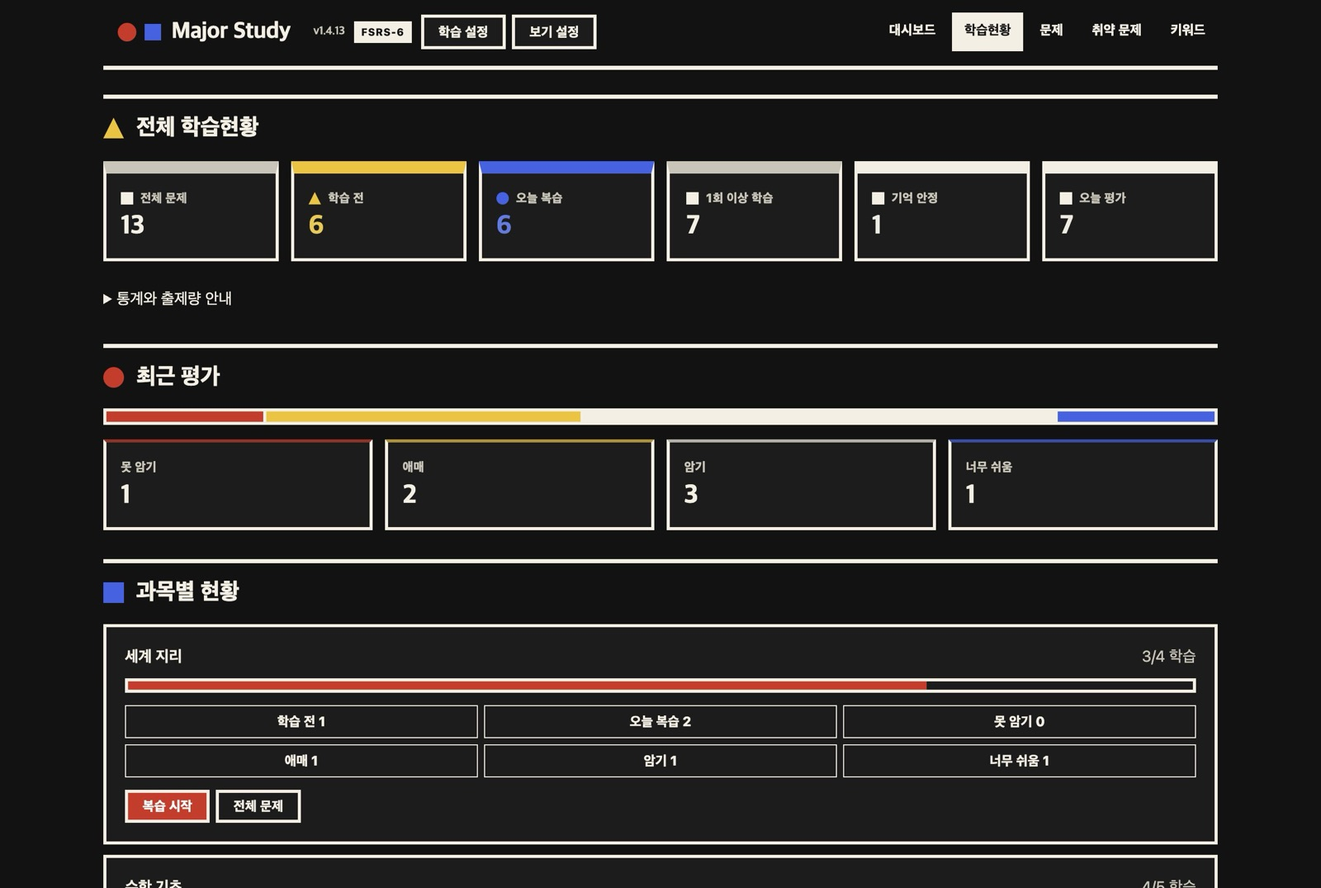
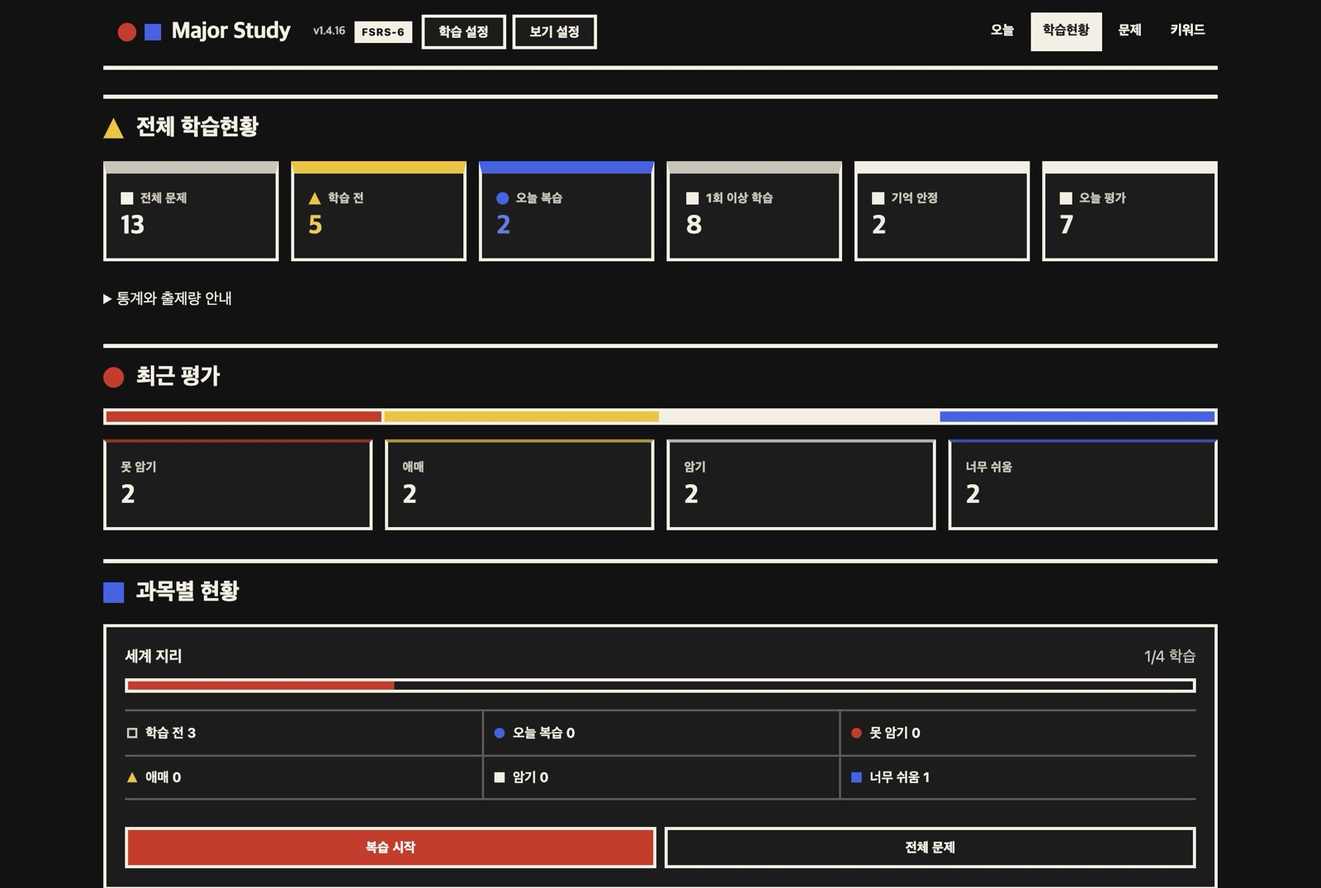
release: MIA Study 1.4.16
Re-layout of the tabs (오늘, 학습현황, 문제, 키워드), the question list with
a side detail panel, and the study screen. Homepage screenshots and docs are
updated for the new layout. main.js and styles.css change; storage format and
algorithm are unchanged.

diff --git a/docs/index.html b/docs/index.html
@@ -5,9 +5,9 @@
 <meta name="viewport" content="width=device-width,initial-scale=1">
 <meta name="color-scheme" content="light dark">
 <title>MIA Study · Obsidian 전공 공부 플러그인</title>
-<meta name="description" content="Obsidian 안에서 전공 질문을 모으고, 키워드로 연결하고, FSRS-6로 복습하는 플러그인. 정식 1.4.15 다운로드와 설치 안내.">
+<meta name="description" content="Obsidian 안에서 전공 질문을 모으고, 키워드로 연결하고, FSRS-6로 복습하는 플러그인. 정식 1.4.16 다운로드와 설치 안내.">
 <meta property="og:title" content="MIA Study · Obsidian 전공 공부 플러그인">
-<meta property="og:description" content="질문·키워드·FSRS-6 복습을 Obsidian 안에서. 정식 1.4.15.">
+<meta property="og:description" content="질문·키워드·FSRS-6 복습을 Obsidian 안에서. 정식 1.4.16.">
 <meta property="og:image" content="https://kimchi-kang.github.io/mia-study-obsidian/assets/screens/desktop-dashboard.jpg">
 <meta property="og:type" content="website">
 <link rel="preconnect" href="https://fonts.googleapis.com">
@@ -279,11 +279,11 @@ footer .fm .t{background:var(--yellow);clip-path:polygon(50% 0,100% 100%,0 100%)
   <div class="wrap">
     <div class="hero-grid">
       <div>
-        <span class="ver">정식 1.4.15</span>
+        <span class="ver">정식 1.4.16</span>
         <h1>질문을 모으고,<br><em>잊기 전에</em><br>다시 꺼낸다.</h1>
         <p class="lead">Obsidian 안에서 과목·질문·키워드를 폼으로 관리하고, FSRS-6로 복습 시점을 잡아 주는 공부 플러그인. Markdown을 직접 쓰지 않아도 되고, 문제마다 노트를 만들지도 않습니다. 1.4.13부터 플러그인 화면도 이 페이지와 같은 바우하우스 스타일(빨강·노랑·파랑, 두꺼운 테두리, 각진 모서리)입니다.</p>
         <div class="cta">
-          <a class="btn btn-red" href="https://github.com/kimchi-kang/mia-study-obsidian/releases/download/1.4.15/mia-study-1.4.15.zip" download>↓ 1.4.15 다운로드</a>
+          <a class="btn btn-red" href="https://github.com/kimchi-kang/mia-study-obsidian/releases/download/1.4.16/mia-study-1.4.16.zip" download>↓ 1.4.16 다운로드</a>
           <a class="btn btn-line" href="#install">BRAT 설치</a>
         </div>
         <p class="meta"><span>무료 · MIT</span><span>데스크톱·모바일</span><span>Obsidian 1.8.7+</span></p>
@@ -298,7 +298,7 @@ footer .fm .t{background:var(--yellow);clip-path:polygon(50% 0,100% 100%,0 100%)
       </div>
     </div>
     <figure class="frame hero-shot">
-      <img src="assets/screens/desktop-dashboard.jpg" width="1600" height="1075" alt="바우하우스 스타일의 MIA Study 대시보드. 파란 복습 6개·노란 새 문제 6개 타일과 빨간 시험 모드 시작 버튼, 이어하기 카드, 등록 문제 13개·기억 안정 비율·오늘 평가 통계 타일, 과목별 학습 카드가 보인다.">
+      <img src="assets/screens/desktop-dashboard.jpg" width="1600" height="1075" alt="바우하우스 스타일의 MIA Study 오늘 화면. 큰 파란 복습 블록과 노란 새 문제 블록, 빨간 시험 모드 시작 버튼·전체 암기 모드·기록 새로고침이 있는 시작 패널, 이어하기 카드, 등록 문제 13개 등 통계 타일, 취약 문제 띠가 보인다.">
     </figure>
   </div>
 </div>
@@ -309,7 +309,7 @@ footer .fm .t{background:var(--yellow);clip-path:polygon(50% 0,100% 100%,0 100%)
     <div class="steps">
       <div class="step"><span class="n">1</span><h3>과목 추가</h3><p>리본의 뇌 아이콘이나 명령 팔레트의 <code>MIA Study 열기</code>로 시작해 과목을 만듭니다. 과목 폴더와 문제은행 노트가 자동으로 생깁니다.</p></div>
       <div class="step"><span class="n">2</span><h3>질문 추가</h3><p>과목·질문·정답·유형과 핵심·보조 키워드, 각 키워드의 의미를 폼에 입력합니다. 키워드 의미 노트도 함께 만들어집니다.</p></div>
-      <div class="step"><span class="n">3</span><h3>시험 시작</h3><p>대시보드의 <strong>시험 모드 시작</strong>을 누르면 오늘 복습할 문제와 새 문제가 나옵니다. 평가할 때마다 다음 복습일이 정해집니다.</p></div>
+      <div class="step"><span class="n">3</span><h3>시험 시작</h3><p><strong>오늘</strong> 화면의 <strong>시험 모드 시작</strong>을 누르면 오늘 복습할 문제와 새 문제가 나옵니다. 평가할 때마다 다음 복습일이 정해집니다.</p></div>
     </div>
     <p class="defaults">기본값: 하루 새 문제 20개 · 복습 200회 · 하루 시작 오전 4시 · 학습 단계 1분 → 10분 · 목표 기억률 90%</p>
   </div>
@@ -338,7 +338,7 @@ footer .fm .t{background:var(--yellow);clip-path:polygon(50% 0,100% 100%,0 100%)
         </ul>
         <p class="keys">Space 정답 · 1–4 평가 · ← → 이동 · U 직전 평가 취소</p>
       </div>
-      <figure class="frame"><img src="assets/screens/desktop-study.jpg" width="1600" height="1075" loading="lazy" alt="시험 모드 학습 화면. 시차 계산 질문 아래 분수 수식이 렌더링된 모범 답안과 빨강·노랑·흰색·파랑의 못 암기·애매·암기·너무 쉬움 평가 버튼이 보인다."></figure>
+      <figure class="frame"><img src="assets/screens/desktop-study.jpg" width="1600" height="1075" loading="lazy" alt="시험 모드 학습 화면. 시차 계산 질문 아래 분수 수식이 렌더링된 모범 답안과, 1–4 키 표시와 다음 간격이 붙은 빨강·노랑·흰색·파랑의 큰 평가 버튼이 보인다."></figure>
     </div>
 
     <div class="feat flip">
@@ -367,7 +367,7 @@ footer .fm .t{background:var(--yellow);clip-path:polygon(50% 0,100% 100%,0 100%)
           <li>질문마다 상세·편집·연결·삭제</li>
         </ul>
       </div>
-      <figure class="frame"><img src="assets/screens/desktop-questions.jpg" width="1600" height="1075" loading="lazy" alt="문제 목록 화면. 수학 기초·요리 과학 예시 질문 13개와 검색창, 과목·유형·상태 필터, 질문마다 학습·상세·편집·연결·삭제 버튼이 보인다."></figure>
+      <figure class="frame"><img src="assets/screens/desktop-questions.jpg" width="1600" height="1075" loading="lazy" alt="문제 목록 화면. 전체 13·오늘 복습 2·학습 전 10·▲ 취약 상태 칩과 검색창·필터, 질문마다 학습·상세·편집·연결 열과 빨간 삭제 글자, 오른쪽 상세 패널 영역이 보인다."></figure>
     </div>
 
     <div class="feat flip">
@@ -381,7 +381,7 @@ footer .fm .t{background:var(--yellow);clip-path:polygon(50% 0,100% 100%,0 100%)
           <li>학습 중 키워드·과목·유형·최근 평가로 관련 문제를 추천해 이어서 출제</li>
         </ul>
       </div>
-      <figure class="frame"><img src="assets/screens/desktop-keywords.jpg" width="1600" height="1075" loading="lazy" alt="키워드 화면. 레시피, 갈변, 경우의 수, 근의 공식, 끓는점, 마이야르 반응 같은 예시 키워드 카드마다 연결 문제 수와 키워드 수정·연결 문제 시험·암기·키워드 삭제 버튼이 보인다."></figure>
+      <figure class="frame"><img src="assets/screens/desktop-keywords.jpg" width="1600" height="1075" loading="lazy" alt="키워드 화면. 레시피, 갈변, 경우의 수, 계량, 고도, 근의 공식 같은 예시 키워드 카드마다 연결 문제 수와 연결 문제 시험·암기·편집·삭제 버튼이 보인다."></figure>
     </div>
 
     <div class="feat">
@@ -391,7 +391,7 @@ footer .fm .t{background:var(--yellow);clip-path:polygon(50% 0,100% 100%,0 100%)
         <p>전체·과목별로 학습 전, 오늘 복습, 기억 안정, 오늘 평가를 한눈에 보고, 숫자를 누르면 해당 문제만 모아 봅니다.</p>
         <ul class="pts">
           <li>최근 평가 분포를 네 가지 색 막대로 표시</li>
-          <li>취약 문제: 못 암기·애매 문제를 복습 지연 시간까지 반영한 긴급도 순으로 정렬해 바로 시험</li>
+          <li>취약 문제: 오늘 화면의 취약 띠와 문제 탭의 "▲ 취약" 필터에서 못 암기·애매 문제를 복습 지연 시간까지 반영한 긴급도 순으로 정렬해 바로 시험</li>
           <li>시험이 끝나면 평가별 개수·건너뜀·소요 시간 요약</li>
         </ul>
       </div>
@@ -402,7 +402,7 @@ footer .fm .t{background:var(--yellow);clip-path:polygon(50% 0,100% 100%,0 100%)
     <div class="more">
       <div><span class="dot c" aria-hidden="true"></span><h3>시험 모드 · 암기 모드</h3><p>시험은 정답을 가리고 상한·순서를 따릅니다. 암기는 정답을 처음부터 보여 주고 순서대로·랜덤을 고릅니다.</p></div>
       <div><span class="dot s" aria-hidden="true"></span><h3>직전 평가 취소</h3><p>잘못 누른 평가를 그 직전의 복습 상태와 학습 순서까지 그대로 되돌립니다.</p></div>
-      <div><span class="dot t" aria-hidden="true"></span><h3>이어하기</h3><p>마지막으로 본 위치를 저장해 대시보드에서 바로 이어갑니다.</p></div>
+      <div><span class="dot t" aria-hidden="true"></span><h3>이어하기</h3><p>마지막으로 본 위치를 저장해 오늘 화면에서 바로 이어갑니다.</p></div>
       <div><span class="dot c" aria-hidden="true"></span><h3>Anki 스타일 학습 설정</h3><p>하루 새 문제·복습 상한, 학습·재학습 단계, 목표 기억률, 출제 순서, 평가 버튼별 고정 간격을 간편·고급 화면에서 조정합니다.</p></div>
       <div><span class="dot s" aria-hidden="true"></span><h3>꼬리질문 연결</h3><p>기존 문제를 검색해 최대 50개까지 단방향·양방향으로 연결합니다.</p></div>
       <div><span class="dot t" aria-hidden="true"></span><h3>과목별 Word 정리본</h3><p>과목의 질문·답변 전체를 A4 서식의 .docx로 출력합니다. 표·목록·코드·보관함 이미지를 포함하고 수식은 LaTeX 표기로 보존합니다.</p></div>
@@ -424,7 +424,7 @@ footer .fm .t{background:var(--yellow);clip-path:polygon(50% 0,100% 100%,0 100%)
           <p class="honest">데스크톱 Obsidian에서 휴대폰 폭(390px)으로 찍은 화면입니다. 실제 휴대폰 캡처가 아닙니다.</p>
         </div>
         <div class="phones">
-          <figure class="phone"><img src="assets/screens/mobile-dashboard.jpg" width="780" height="1688" loading="lazy" alt="390픽셀 폭 어두운 테마의 대시보드. 파란 복습 6개·노란 새 문제 6개 타일, 시험 모드 시작 버튼, 이어하기 카드가 보인다."></figure>
+          <figure class="phone"><img src="assets/screens/mobile-dashboard.jpg" width="780" height="1688" loading="lazy" alt="390픽셀 폭 어두운 테마의 오늘 화면. 파란 복습·노란 새 문제 타일, 시험 모드 시작 버튼, 이어하기 카드와 아래쪽 탭 바(오늘·학습현황·문제·키워드)가 보인다."></figure>
           <figure class="phone"><img src="assets/screens/mobile-study.jpg" width="780" height="1688" loading="lazy" alt="390픽셀 폭 학습 화면. 수식이 렌더링된 모범 답안 아래에 빨강·노랑·흰색·파랑 평가 버튼 네 개가 2×2로 배치되어 있다."></figure>
         </div>
       </div>
@@ -483,11 +483,11 @@ footer .fm .t{background:var(--yellow);clip-path:polygon(50% 0,100% 100%,0 100%)
         <h3>ZIP 직접 설치</h3>
         <ol>
           <li>보관함을 백업하고 Obsidian을 닫습니다.</li>
-          <li><a href="https://github.com/kimchi-kang/mia-study-obsidian/releases/download/1.4.15/mia-study-1.4.15.zip">ZIP</a>의 <code>main.js</code> <code>styles.css</code> <code>manifest.json</code> 세 파일을 아래 폴더에 복사합니다.<code class="blk">.obsidian/<wbr>plugins/<wbr>mia-study/</code></li>
+          <li><a href="https://github.com/kimchi-kang/mia-study-obsidian/releases/download/1.4.16/mia-study-1.4.16.zip">ZIP</a>의 <code>main.js</code> <code>styles.css</code> <code>manifest.json</code> 세 파일을 아래 폴더에 복사합니다.<code class="blk">.obsidian/<wbr>plugins/<wbr>mia-study/</code></li>
           <li><code>data.json</code>, <code>ui-state.json</code>은 그대로 둡니다. 학습 기록이 여기 있습니다.</li>
           <li>Obsidian을 다시 엽니다.</li>
         </ol>
-        <p class="links"><a href="https://github.com/kimchi-kang/mia-study-obsidian/releases/download/1.4.15/SHA256SUMS">SHA256SUMS</a> · <a href="https://github.com/kimchi-kang/mia-study-obsidian/blob/main/INSTALL.md">INSTALL.md</a></p>
+        <p class="links"><a href="https://github.com/kimchi-kang/mia-study-obsidian/releases/download/1.4.16/SHA256SUMS">SHA256SUMS</a> · <a href="https://github.com/kimchi-kang/mia-study-obsidian/blob/main/INSTALL.md">INSTALL.md</a></p>
       </div>
     </div>
   </div>
@@ -498,17 +498,17 @@ footer .fm .t{background:var(--yellow);clip-path:polygon(50% 0,100% 100%,0 100%)
     <div class="sh"><span class="shape c" aria-hidden="true"></span><h2>최신 업데이트</h2><span class="num">06</span></div>
     <div class="upd">
       <div class="l">
-        <div class="big">1.4.15</div>
-        <p>2026년 11월 11일</p>
-        <p><a href="https://github.com/kimchi-kang/mia-study-obsidian/releases/tag/1.4.15">릴리스 노트 →</a></p>
+        <div class="big">1.4.16</div>
+        <p>2026년 11월 12일</p>
+        <p><a href="https://github.com/kimchi-kang/mia-study-obsidian/releases/tag/1.4.16">릴리스 노트 →</a></p>
       </div>
       <div class="r">
-        <h3>초기화 확인과 상세 창 버튼 정리</h3>
+        <h3>탭 4개로 줄인 새 화면 배치</h3>
         <ul>
-          <li>질문 상세 창의 "학습 전으로 초기화"가 실행 전에 기록 수를 보여 주고 되돌릴 수 없다고 안내하며 취소/초기화를 묻습니다.</li>
-          <li>평가 버튼에 색 막대, 초기화는 작은 빨간 글자 버튼, 삭제는 따로 분리. 휴대폰에서는 44px 터치 영역.</li>
+          <li>탭은 오늘 · 학습현황 · 문제 · 키워드. 취약 문제는 오늘의 취약 띠와 문제의 "▲ 취약" 필터로 옮겼습니다.</li>
+          <li>문제 목록은 열을 맞추고, 넓은 화면에서는 오른쪽 상세 패널로 엽니다. 학습 화면은 큰 색 평가 버튼과 키 안내, 휴대폰은 하단 탭 바와 44px 터치 영역.</li>
         </ul>
-        <p style="margin:0 0 12px"><a href="https://github.com/kimchi-kang/mia-study-obsidian/releases/tag/1.4.14">1.4.14</a>: 과목·학습현황·키워드 카드의 버튼과 숫자를 한눈에 보이도록 정리.</p>
+        <p style="margin:0 0 12px"><a href="https://github.com/kimchi-kang/mia-study-obsidian/releases/tag/1.4.15">1.4.15</a>: 질문 상세 창의 초기화 확인과 버튼 정리.</p>
         <a href="https://github.com/kimchi-kang/mia-study-obsidian/blob/main/docs/releases/HISTORY.md">전체 변경 이력 →</a>
       </div>
     </div>
@@ -519,7 +519,7 @@ footer .fm .t{background:var(--yellow);clip-path:polygon(50% 0,100% 100%,0 100%)
   <div class="wrap">
     <div class="sh"><span class="shape s" aria-hidden="true"></span><h2>검증</h2><span class="num">07</span></div>
     <div class="verify">
-      <div class="v"><span class="lab ok">통과</span><b>1,686개</b><p>1.4.15 자동 검사 실패·생략 0, 타입 검사·배포 빌드 통과.</p></div>
+      <div class="v"><span class="lab ok">통과</span><b>1,712개</b><p>1.4.16 자동 검사 실패·생략 0, 타입 검사·배포 빌드 통과.</p></div>
       <div class="v"><span class="lab ok">확인</span><b>데스크톱 앱</b><p>macOS Obsidian에서 모든 탭과 시험·암기, 평가·취소, 재시작을 확인했습니다.</p></div>
       <div class="v"><span class="lab no">미검증</span><b>휴대폰 실기기</b><p>iOS·Android 실기기, OS 키보드, 두 기기 실시간 동기화는 직접 확인하지 않았습니다.</p></div>
     </div>
@@ -545,7 +545,7 @@ footer .fm .t{background:var(--yellow);clip-path:polygon(50% 0,100% 100%,0 100%)
 <footer>
   <div class="wrap">
     <span class="fm" aria-hidden="true"><i class="c"></i><i class="s"></i><i class="t"></i></span>
-    <span>MIA Study 1.4.15 · <a href="https://github.com/kimchi-kang/mia-study-obsidian/blob/main/LICENSE">MIT</a> · 복습 일정: <a href="https://github.com/open-spaced-repetition/ts-fsrs">ts-fsrs</a>(FSRS-6)</span>
+    <span>MIA Study 1.4.16 · <a href="https://github.com/kimchi-kang/mia-study-obsidian/blob/main/LICENSE">MIT</a> · 복습 일정: <a href="https://github.com/open-spaced-repetition/ts-fsrs">ts-fsrs</a>(FSRS-6)</span>
     <span><a href="https://github.com/kimchi-kang/mia-study-obsidian">GitHub</a> · <a href="https://github.com/kimchi-kang/mia-study-obsidian/issues">문제 신고</a> · <a href="https://github.com/kimchi-kang/mia-study-obsidian/releases">릴리스</a></span>
   </div>
 </footer>

diff --git a/README.md b/README.md
@@ -10,9 +10,9 @@
 ![Platforms](https://img.shields.io/badge/desktop%20%C2%B7%20mobile-supported-2f9e5b)
 [![License](https://img.shields.io/github/license/kimchi-kang/mia-study-obsidian?color=555)](LICENSE)
 
-[**소개 페이지**](https://kimchi-kang.github.io/mia-study-obsidian/) · [**1.4.15 다운로드**](https://github.com/kimchi-kang/mia-study-obsidian/releases/download/1.4.15/mia-study-1.4.15.zip) · [변경 내역](docs/releases/1.4.15.md) · [현재 상태](STATUS.md)
+[**소개 페이지**](https://kimchi-kang.github.io/mia-study-obsidian/) · [**1.4.16 다운로드**](https://github.com/kimchi-kang/mia-study-obsidian/releases/download/1.4.16/mia-study-1.4.16.zip) · [변경 내역](docs/releases/1.4.16.md) · [현재 상태](STATUS.md)
 
-<img src="docs/assets/screens/desktop-dashboard.jpg" alt="MIA Study 대시보드. 1.4.13 바우하우스 디자인의 오늘 복습·새 문제 타일과 과목별 학습 카드" width="860">
+<img src="docs/assets/screens/desktop-dashboard.jpg" alt="MIA Study 오늘 화면. 바우하우스 디자인의 복습·새 문제 블록, 시작 패널, 취약 문제 띠와 과목별 학습 카드" width="860">
 
 </div>
 
@@ -26,7 +26,7 @@ Obsidian 안에서 과목·질문·키워드를 폼으로 관리하면서 FSRS-6
 
 화면은 1.4.13 바우하우스 디자인(빨강·노랑·파랑, 두꺼운 테두리, 각진 모서리)과 직접 만든 일반 상식 데모 보관함(수학 기초·세계 지리·요리 과학)으로 찍었습니다. 수식·이미지·표·코드 렌더링을 보여 주는 예시 질문이며 실제 학습 내용이 아닙니다. 모바일 화면은 데스크톱 Obsidian에서 휴대폰 폭을 흉내 낸 것입니다.
 
-[1.4.15 정식 릴리스](https://github.com/kimchi-kang/mia-study-obsidian/releases/tag/1.4.15) · [다운로드·설치 안내](https://kimchi-kang.github.io/mia-study-obsidian/) · [현재 상태](STATUS.md) · [1.4.15 변경 내역](docs/releases/1.4.15.md) · [이전 버전 이력](docs/releases/HISTORY.md)
+[1.4.16 정식 릴리스](https://github.com/kimchi-kang/mia-study-obsidian/releases/tag/1.4.16) · [다운로드·설치 안내](https://kimchi-kang.github.io/mia-study-obsidian/) · [현재 상태](STATUS.md) · [1.4.16 변경 내역](docs/releases/1.4.16.md) · [이전 버전 이력](docs/releases/HISTORY.md)
 
 Major Study 제목 바로 옆에서 현재 실행 중인 버전을 확인할 수 있습니다. 업데이트한 파일을 로드하려면 Obsidian을 다시 시작하세요. 수식은 원문에 `$...$` 또는 `$$...$$` 구분자와 TeX 문법이 있어야 표시됩니다. 예를 들어 `y(t) = A(1 - e^(-t/k))` 같은 일반 문장은 자동으로 수식으로 바뀌지 않습니다.
 
@@ -50,8 +50,8 @@ Major Study 제목 바로 옆에서 현재 실행 중인 버전을 확인할 수
 3. `질문 추가`에서 과목, 질문, 정답, 유형, 핵심·보조 키워드와 각 의미를 입력한다. 꼬리질문은 과목·제목·질문 내용으로 검색해 최대 50개까지 선택할 수 있다.
 4. `학습현황`에서 전체·학습 전·기억 안정·오늘 평가·오늘 복습·최근 평가와 과목별 상태를 확인한다. 숫자를 누르면 해당 문제만 모아 볼 수 있다.
 5. 문제 화면에서 질문의 상세 정보·복습 기록을 보거나 질문을 편집·삭제한다. 과목을 바꾸어 저장하면 기존/새 과목의 문제은행과 과목 노트가 함께 갱신된다.
-6. 대시보드의 과목 카드에서 과목 이름을 수정하거나 과목을 삭제하고, 키워드 화면에서 키워드의 이름·의미를 수정하거나 삭제한다.
-7. 대시보드의 `시험 모드 시작`은 정답을 가리고, `전체 암기 모드`는 정답을 처음부터 표시한다. 시험은 상세 학습관리의 상한과 순서를 따르고, 랜덤 암기는 복습 기한이 된 문제를 먼저, 새 문제를 다음에 내며 각 그룹 안에서 무작위로 배치한다. 암기는 MIA 플러그인 설정 또는 `보기 설정`의 `암기 모드 순서`에서 `순서대로` / `랜덤`을 선택한다(기본 랜덤, 기기별 저장). `순서대로`는 현재 문제 목록 순서를 따른다. 아직 복습 기한이 안 된 문제는 제외하며 변경한 설정은 새 학습부터 적용한다.
+6. `오늘` 화면의 과목 카드에서 과목 이름을 수정하거나 과목을 삭제하고, 키워드 화면에서 키워드의 이름·의미를 수정하거나 삭제한다.
+7. `오늘` 화면의 `시험 모드 시작`은 정답을 가리고, `전체 암기 모드`는 정답을 처음부터 표시한다. 시험은 상세 학습관리의 상한과 순서를 따르고, 랜덤 암기는 복습 기한이 된 문제를 먼저, 새 문제를 다음에 내며 각 그룹 안에서 무작위로 배치한다. 암기는 MIA 플러그인 설정 또는 `보기 설정`의 `암기 모드 순서`에서 `순서대로` / `랜덤`을 선택한다(기본 랜덤, 기기별 저장). `순서대로`는 현재 문제 목록 순서를 따른다. 아직 복습 기한이 안 된 문제는 제외하며 변경한 설정은 새 학습부터 적용한다.
 8. 정답을 본 뒤 `못 암기`, `애매`, `암기`, `너무 쉬움` 중 하나를 고른다. `애매`는 정답을 기억했지만 어려웠다는 뜻이다. 떠올리지 못했다면 `못 암기`를 고른다. 시험 모드의 일일 상한은 상세 학습관리에서 조정한다.
 9. 학습·재학습 중인 문제는 예정 시각이 되면 같은 세션에서 다시 출제된다. 다른 문제가 없으면 다음 복습 시각까지 대기하고 자동으로 재개한다. 다음날 이후의 정규 복습은 Anki처럼 **기한일 단위**로 출제한다. 하루 시작 시각(기본 04:00)부터 그날이 기한인 복습은 예약 시각 전이라도 출제하므로, 매일 비슷한 시간에 공부해도 복습이 하루씩 밀리지 않는다. 1분·10분 같은 학습 단계와 하루 미만의 고정 간격은 정확한 시각을 따른다.
 10. 화면 왼쪽 가장자리에서 중앙 방향으로 쓸면 학습을 시작한 화면으로 돌아간다. 이어하기로 같은 위치를 복원할 수 있다. 제스처로 문제를 넘기지 않으며 이전·다음 버튼을 사용한다. `보기 설정`에서 뒤로가기 제스처와 민감도를 조정할 수 있다.
@@ -61,7 +61,7 @@ Major Study 제목 바로 옆에서 현재 실행 중인 버전을 확인할 수
 
 추가 기능:
 
-- `취약 문제`: 못 암기·애매 문제를 복습 지연 시간이 포함된 긴급도 순으로 검색하고 바로 시험한다.
+- 취약 문제: `오늘` 화면의 취약 문제 띠(`취약 문제 시험` / `목록 보기`)와 `문제` 탭의 `▲ 취약` 필터에서 못 암기·애매 문제를 복습 지연 시간이 포함된 긴급도 순으로 보고 바로 시험한다.
 - `연결`: 질문을 검색·과목 필터로 최대 50개까지 선택하며 단방향 또는 양방향으로 연결한다.
 - 자동 추천: 키워드·과목·질문 유형·최근 평가를 바탕으로 5점 이상인 관련 질문을 현재 시험에 추가한다.
 - 질문 목록: 생성·수정일, 취약도, 애매 우선 정렬과 필터 칩, 한글 조합 검색, 50개 단위 페이지를 지원한다.
@@ -97,7 +97,7 @@ MIA 첫 화면의 `학습 설정` 또는 Obsidian 설정 → MIA Study에서 하
 
 ## 과목별 질문·답변 Word 정리본 출력
 
-MIA 대시보드의 **출력**을 누르면 과목 선택창이 열린다. 과목을 클릭하면 해당 과목의 등록된 모든 질문과 답변을 원본 파일·문제 순서대로 정리한 **Word(.docx)** 파일을 PC에서는 운영체제의 **다운로드 폴더**에 저장한다. 모바일에서는 보관함의 `MIA 출력/` 폴더에 저장한다. 질문 목록의 검색·복습 필터와 관계없이 선택한 과목 전체를 출력한다. 명령 팔레트의 `MIA Study: 과목 질문 답변 Word로 출력`으로도 실행할 수 있다.
+MIA `오늘` 화면의 **출력**을 누르면 과목 선택창이 열린다. 과목을 클릭하면 해당 과목의 등록된 모든 질문과 답변을 원본 파일·문제 순서대로 정리한 **Word(.docx)** 파일을 PC에서는 운영체제의 **다운로드 폴더**에 저장한다. 모바일에서는 보관함의 `MIA 출력/` 폴더에 저장한다. 질문 목록의 검색·복습 필터와 관계없이 선택한 과목 전체를 출력한다. 명령 팔레트의 `MIA Study: 과목 질문 답변 Word로 출력`으로도 실행할 수 있다.
 
 - 과목 제목 아래 `질문 1 → 답변 → 질문 2 → 답변` 순서로 정리한다. 중복된 문제 제목, 문제 ID, 학습 정보, 별도 `원문:` 출처 링크는 넣지 않는다.
 - A4 여백과 흑백 글자 스타일을 적용한다. 글자 강조·목록·표·코드와 보관함 안의 PNG·JPG·GIF·BMP 이미지를 포함한다. 일반 링크는 표시 문구만 남긴다.

diff --git a/STATUS.md b/STATUS.md
@@ -1,6 +1,8 @@
 # MIA Study 현재 작업·검증·배포 상태
 
-2026-11-11 KST. **현재 정식 배포는 1.4.15**입니다. 질문 상세 창의 `학습 전으로 초기화`가 실행 전에 확인 창(기록 수 표시, 되돌릴 수 없음 안내, 취소/초기화)을 띄우고, 상세 창 버튼을 정리했습니다(저장 형식·알고리즘 변경 없음, `main.js`·`styles.css` 변경). 전체 1,686개(실패·생략 0), 타입 검사·빌드 통과. 예시 문제로 만든 격리 보관함에서 데스크톱 Obsidian의 밝은·어두운 테마와 휴대폰 폭(390px)을 확인했습니다. **모바일 실기기와 두 기기 동기화는 미검증입니다.** [정식 릴리스](https://github.com/kimchi-kang/mia-study-obsidian/releases/tag/1.4.15) · [변경 내역](docs/releases/1.4.15.md) · [1.4.15 SHA256SUMS](https://github.com/kimchi-kang/mia-study-obsidian/releases/download/1.4.15/SHA256SUMS)
+2026-11-12 KST. **현재 정식 배포는 1.4.16**입니다. 화면 배치를 새로 짰습니다(레이아웃만 변경, 저장 형식·알고리즘 변경 없음, `main.js`·`styles.css` 변경). 탭은 `오늘`·`학습현황`·`문제`·`키워드` 4개이고 `취약 문제`는 `오늘`의 취약 띠와 `문제`의 `▲ 취약` 필터로 옮겼습니다. 문제 목록에 오른쪽 상세 패널, 학습 화면에 큰 평가 버튼, 휴대폰에 하단 탭 바를 넣었습니다. 전체 1,712개(실패·생략 0), 타입 검사·빌드 통과. 예시 문제로 만든 격리 보관함에서 데스크톱 Obsidian의 밝은·어두운 테마를 여러 폭으로, 휴대폰 폭(390px)을 확인했습니다. **모바일 실기기와 두 기기 동기화는 미검증입니다(휴대폰 전체 화면 상세는 CSS 대용으로만 확인).** [정식 릴리스](https://github.com/kimchi-kang/mia-study-obsidian/releases/tag/1.4.16) · [변경 내역](docs/releases/1.4.16.md) · [1.4.16 SHA256SUMS](https://github.com/kimchi-kang/mia-study-obsidian/releases/download/1.4.16/SHA256SUMS)
+
+2026-11-11 KST. **당시 정식 배포 1.4.15**입니다. 질문 상세 창의 `학습 전으로 초기화`가 실행 전에 확인 창(기록 수 표시, 되돌릴 수 없음 안내, 취소/초기화)을 띄우고, 상세 창 버튼을 정리했습니다(저장 형식·알고리즘 변경 없음, `main.js`·`styles.css` 변경). 전체 1,686개(실패·생략 0), 타입 검사·빌드 통과. 예시 문제로 만든 격리 보관함에서 데스크톱 Obsidian의 밝은·어두운 테마와 휴대폰 폭(390px)을 확인했습니다. **모바일 실기기와 두 기기 동기화는 미검증입니다.** [정식 릴리스](https://github.com/kimchi-kang/mia-study-obsidian/releases/tag/1.4.15) · [변경 내역](docs/releases/1.4.15.md) · [1.4.15 SHA256SUMS](https://github.com/kimchi-kang/mia-study-obsidian/releases/download/1.4.15/SHA256SUMS)
 
 2026-11-11 KST. **당시 정식 배포 1.4.14**입니다. 과목 카드·학습현황 과목 카드·키워드 카드의 버튼과 숫자를 한눈에 보이도록 정리했습니다(버튼은 그대로, `styles.css`만 변경, 저장 형식 변경 없음). 전체 1,685개(실패·생략 0), 타입 검사·빌드 통과. 예시 문제로 만든 격리 보관함에서 데스크톱 Obsidian의 밝은·어두운 테마와 휴대폰 폭(390px)을 확인하고 시험·이름 수정·연결 질문 보기·복습 시작 버튼을 눌러 보았습니다. **모바일 실기기와 두 기기 동기화는 미검증입니다.** [정식 릴리스](https://github.com/kimchi-kang/mia-study-obsidian/releases/tag/1.4.14) · [변경 내역](docs/releases/1.4.14.md) · [1.4.14 SHA256SUMS](https://github.com/kimchi-kang/mia-study-obsidian/releases/download/1.4.14/SHA256SUMS)
 

diff --git a/INSTALL.md b/INSTALL.md
@@ -4,7 +4,7 @@ Obsidian 1.8.7 이상을 대상으로 하며 데스크톱과 모바일을 지원
 
 ## 현재 정식 배포 · 2026-11-11
 
-정식 설치 버전은 **1.4.15**입니다. 질문 상세 창의 `학습 전으로 초기화`가 실행 전에 확인을 받고 상세 창 버튼 배치를 정리했으며(저장 형식 변경 없음, `main.js`·`styles.css` 변경), 1.4.14의 카드 버튼 정리와 과목 카드·학습현황 과목 카드·키워드 카드의 버튼과 숫자를 한눈에 보이도록 정리했고(버튼은 그대로, `styles.css`만 변경), 1.4.13의 바우하우스 스타일 새 디자인과 1.4.12의 동기화 충돌 복사본·부분 동기화 경고, 1.4.11의 고정 간격 기한일 수정을 포함합니다. 자동 검사와 격리 보관함의 데스크톱 Obsidian 화면으로 확인했으며 모바일 실기기에서는 확인하지 않았습니다. 수동 설치 시 같은 빌드의 세 배포 파일을 함께 사용하세요. [정식 다운로드](https://github.com/kimchi-kang/mia-study-obsidian/releases/tag/1.4.15) · [변경 내역](docs/releases/1.4.15.md) · [1.4.14 변경 내역](docs/releases/1.4.14.md) · [1.4.13 변경 내역](docs/releases/1.4.13.md) · [1.4.12 변경 내역](docs/releases/1.4.12.md) · [1.4.11 변경 내역](docs/releases/1.4.11.md) · [1.4.10 변경 내역](docs/releases/1.4.10.md) · [1.4.9 변경 내역](docs/releases/1.4.9.md) · [1.4.8 변경 내역](docs/releases/1.4.8.md) · [1.4.6 변경 내역](docs/releases/1.4.6.md) · [1.4.5 변경 내역](docs/releases/1.4.5.md) · [1.4.3 설치 검증과 복구](docs/qa/1.4.3-integration/README.md)
+정식 설치 버전은 **1.4.16**입니다. 화면 배치를 새로 짜서 탭이 `오늘`·`학습현황`·`문제`·`키워드` 4개가 되고(`취약 문제`는 `오늘`의 취약 띠와 `문제`의 `▲ 취약` 필터로 이동), 질문 목록에 오른쪽 상세 패널과 학습 화면의 큰 평가 버튼, 휴대폰 하단 탭 바를 넣었으며(저장 형식 변경 없음, `main.js`·`styles.css` 변경), 1.4.15의 질문 상세 창의 `학습 전으로 초기화`가 실행 전에 확인을 받고 상세 창 버튼 배치를 정리했으며(저장 형식 변경 없음, `main.js`·`styles.css` 변경), 1.4.14의 카드 버튼 정리와 과목 카드·학습현황 과목 카드·키워드 카드의 버튼과 숫자를 한눈에 보이도록 정리했고(버튼은 그대로, `styles.css`만 변경), 1.4.13의 바우하우스 스타일 새 디자인과 1.4.12의 동기화 충돌 복사본·부분 동기화 경고, 1.4.11의 고정 간격 기한일 수정을 포함합니다. 자동 검사와 격리 보관함의 데스크톱 Obsidian 화면으로 확인했으며 모바일 실기기에서는 확인하지 않았습니다. 수동 설치 시 같은 빌드의 세 배포 파일을 함께 사용하세요. [정식 다운로드](https://github.com/kimchi-kang/mia-study-obsidian/releases/tag/1.4.16) · [변경 내역](docs/releases/1.4.16.md) · [1.4.15 변경 내역](docs/releases/1.4.15.md) · [1.4.14 변경 내역](docs/releases/1.4.14.md) · [1.4.13 변경 내역](docs/releases/1.4.13.md) · [1.4.12 변경 내역](docs/releases/1.4.12.md) · [1.4.11 변경 내역](docs/releases/1.4.11.md) · [1.4.10 변경 내역](docs/releases/1.4.10.md) · [1.4.9 변경 내역](docs/releases/1.4.9.md) · [1.4.8 변경 내역](docs/releases/1.4.8.md) · [1.4.6 변경 내역](docs/releases/1.4.6.md) · [1.4.5 변경 내역](docs/releases/1.4.5.md) · [1.4.3 설치 검증과 복구](docs/qa/1.4.3-integration/README.md)
 
 ## 처음 설치
 

diff --git a/docs/releases/1.4.16.md b/docs/releases/1.4.16.md
@@ -1,0 +1,17 @@
+# MIA Study 1.4.16
+
+2026-11-12 정식 배포
+
+**화면 배치를 다시 짰습니다. 탭이 4개로 줄고, 질문 목록은 오른쪽 상세 패널을 쓰며, 학습 화면은 평가 버튼이 커졌습니다. 저장 방식과 학습 알고리즘은 바뀌지 않았습니다.**
+
+- **탭 4개.** `오늘`(이전 `대시보드`) · `학습현황` · `문제` · `키워드`입니다. `취약 문제` 탭은 없앴고 기능은 두 곳으로 옮겼습니다. `오늘`에는 취약 문제 띠(`취약 문제 시험` / `목록 보기`)가, `문제`에는 긴급도 순으로 정렬되는 `▲ 취약` 필터 칩이 있습니다. `오늘`의 `개선 필요`를 누르면 긴급도 순 취약 목록이 열리고, 이 목록은 300개 상한 대신 50개씩 나눠 보여 줍니다.
+- **오늘.** `복습`과 `새 문제` 블록이 커졌고, 시작 패널에 `시험 모드 시작`, `전체 암기 모드`, `기록 새로고침`, `이어하기`가 모였습니다.
+- **문제.** 행이 `학습`·`상세`·`편집`·`연결` 열로 정렬되고 `삭제`는 맨 오른쪽 빨간 글자입니다. 행을 누르면 넓은 화면에서는 오른쪽 패널에, 좁은 화면에서는 대화창에 상세가 열립니다. 상태 칩은 `전체` / `오늘 복습` / `학습 전` / `▲ 취약`입니다.
+- **이름 통일.** `질문 수정`·`문제 편집`·`키워드 수정`은 `편집`, `연결 관리`는 `연결`, `키워드 삭제`는 `삭제`로 바꿨습니다.
+- **학습 화면.** 색이 있는 큰 평가 버튼에 다음 간격과 1–4 키 표시를 붙였고 Space·U 키 안내를 넣었습니다. 넓은 화면에서는 `이어볼 문제`가 오른쪽 열에 놓입니다. 배너의 중복된 `직전 평가 취소` 버튼은 없앴습니다(U 키는 그대로 동작).
+- **휴대폰(640px 이하).** 하단 탭 바(키보드가 열려 있거나 집중 모드에서는 숨김), 44px 터치 영역, 상세 창의 2×2 평가 버튼과 고정 동작 바를 넣었습니다.
+- **고친 점.** `상세`를 빠르게 두 번 눌러도 창이 하나만 열립니다. 패널은 동작 뒤에도 포커스와 스크롤을 유지하고 다른 창의 포커스를 빼앗지 않습니다. 행과 키워드 버튼에 화면 낭독용 이름을 붙였습니다.
+
+`main.js`와 `styles.css`가 바뀌었고 저장 형식과 학습 알고리즘은 바뀌지 않았습니다. 전체 자동 검사 1,712개(실패·생략 0)와 타입 검사·빌드를 통과했습니다. 예시 문제로 만든 격리 보관함에서 데스크톱 Obsidian의 밝은·어두운 테마를 여러 폭으로, 휴대폰 폭(390px)을 확인했습니다. 모바일 실기기에서는 따로 확인하지 않았으며, 휴대폰 전체 화면 상세(`.is-phone`)는 CSS 대용으로만 확인했습니다. [설치와 복구](https://github.com/kimchi-kang/mia-study-obsidian/blob/main/INSTALL.md)
+
+수동 업데이트는 기존 파일을 백업한 뒤 ZIP의 `main.js`, `styles.css`, `manifest.json`을 함께 교체하세요. 기존 학습 기록·설정·이어하기는 보관함에 유지합니다. 최소 Obsidian 버전은 1.8.7입니다.
